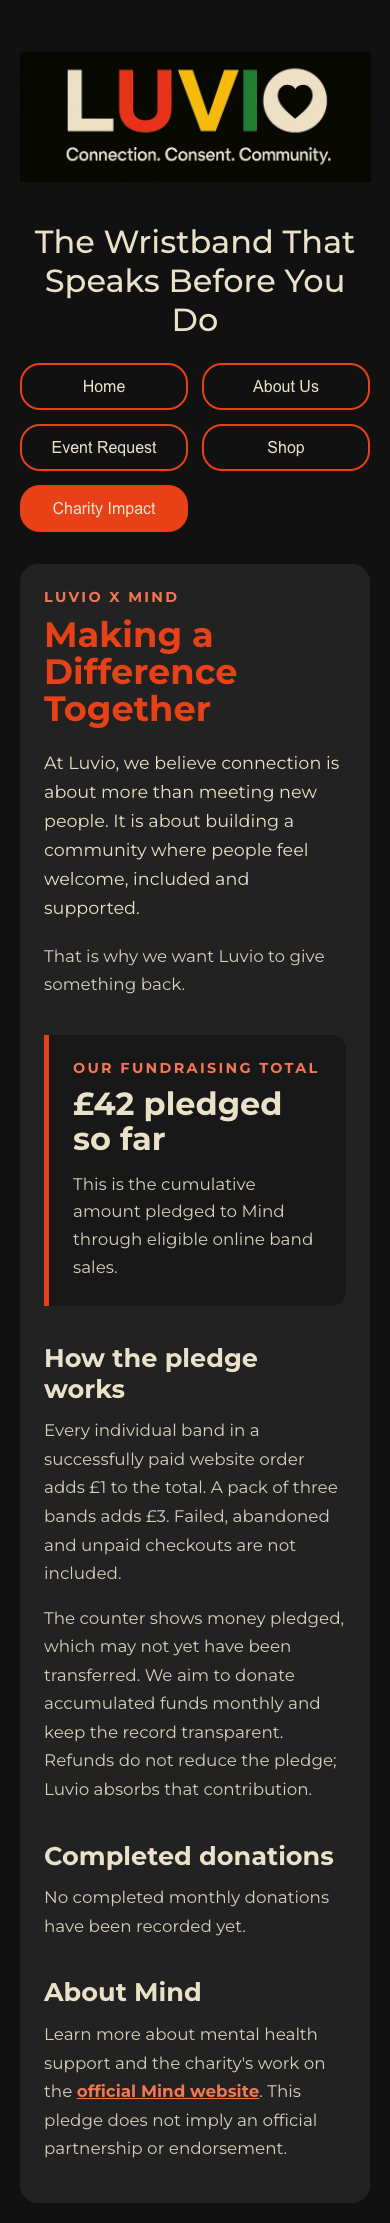
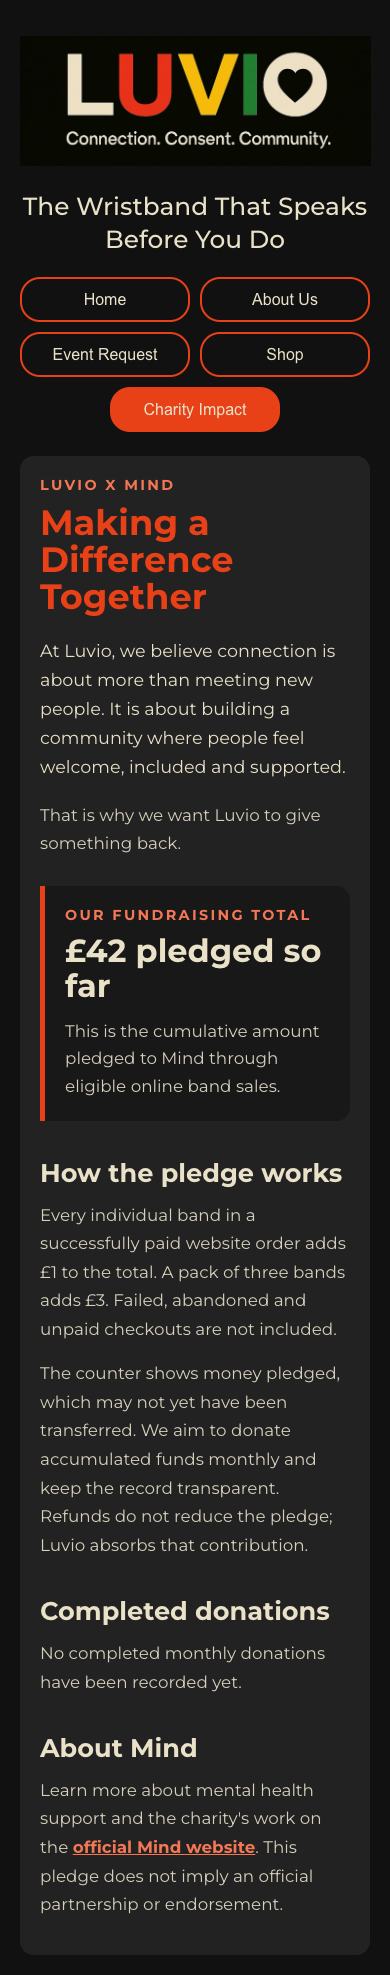
fix: center charity layout on mobile

Changed region(s): [[0.0308, 0.0, 0.9538, 0.9884], [0.2154, 0.0309, 0.2769, 0.0618], [0.1846, 0.0, 0.2154, 0.0309]]

diff --git a/luvio-web/src/App.tsx b/luvio-web/src/App.tsx
@@ -40,12 +40,22 @@ const LogoImageMain = styled.img`
   height: auto;
   margin: 2rem auto 2.5rem auto;
   display: block;
+
+  @media (max-width: 480px) {
+    margin: 1rem auto 1.5rem;
+  }
 `;
 
 const Tagline = styled.h2`
   font-size: 2rem;
   margin-bottom: 1.5rem;
   font-weight: 500;
+
+  @media (max-width: 480px) {
+    font-size: 1.55rem;
+    line-height: 1.35;
+    margin-bottom: 1.25rem;
+  }
 `;
 
 const LogoImage = styled.img`
@@ -157,6 +167,11 @@ const TabContainer = styled.div`
     grid-template-columns: repeat(2, minmax(0, 1fr));
     gap: 14px;
   }
+
+  @media (max-width: 480px) {
+    gap: 10px;
+    margin-bottom: 1.5rem;
+  }
 `;
 
 const Tab = styled.button<{ $active: boolean }>`
@@ -181,6 +196,16 @@ const Tab = styled.button<{ $active: boolean }>`
     font-size: 1rem;
     line-height: 1.2;
     white-space: normal;
+  }
+
+  @media (max-width: 480px) {
+    padding: 11px 8px;
+
+    &:last-child:nth-child(odd) {
+      grid-column: 1 / -1;
+      justify-self: center;
+      width: calc(50% - 5px);
+    }
   }
 `;
 

diff --git a/luvio-web/src/components/CharityImpact.tsx b/luvio-web/src/components/CharityImpact.tsx
@@ -67,6 +67,11 @@ const Page = styled.main`
   border-radius: 18px;
   background: #222;
   text-align: left;
+
+  @media (max-width: 480px) {
+    padding: 1.25rem;
+    border-radius: 14px;
+  }
 `;
 
 const PageTitle = styled.h1`
@@ -89,6 +94,11 @@ const TotalPanel = styled.div`
   border-left: 5px solid #e84118;
   border-radius: 0 14px 14px 0;
   background: #181818;
+
+  @media (max-width: 480px) {
+    margin: 1.75rem 0;
+    padding: 1.25rem;
+  }
 `;
 
 const SectionTitle = styled.h2`
